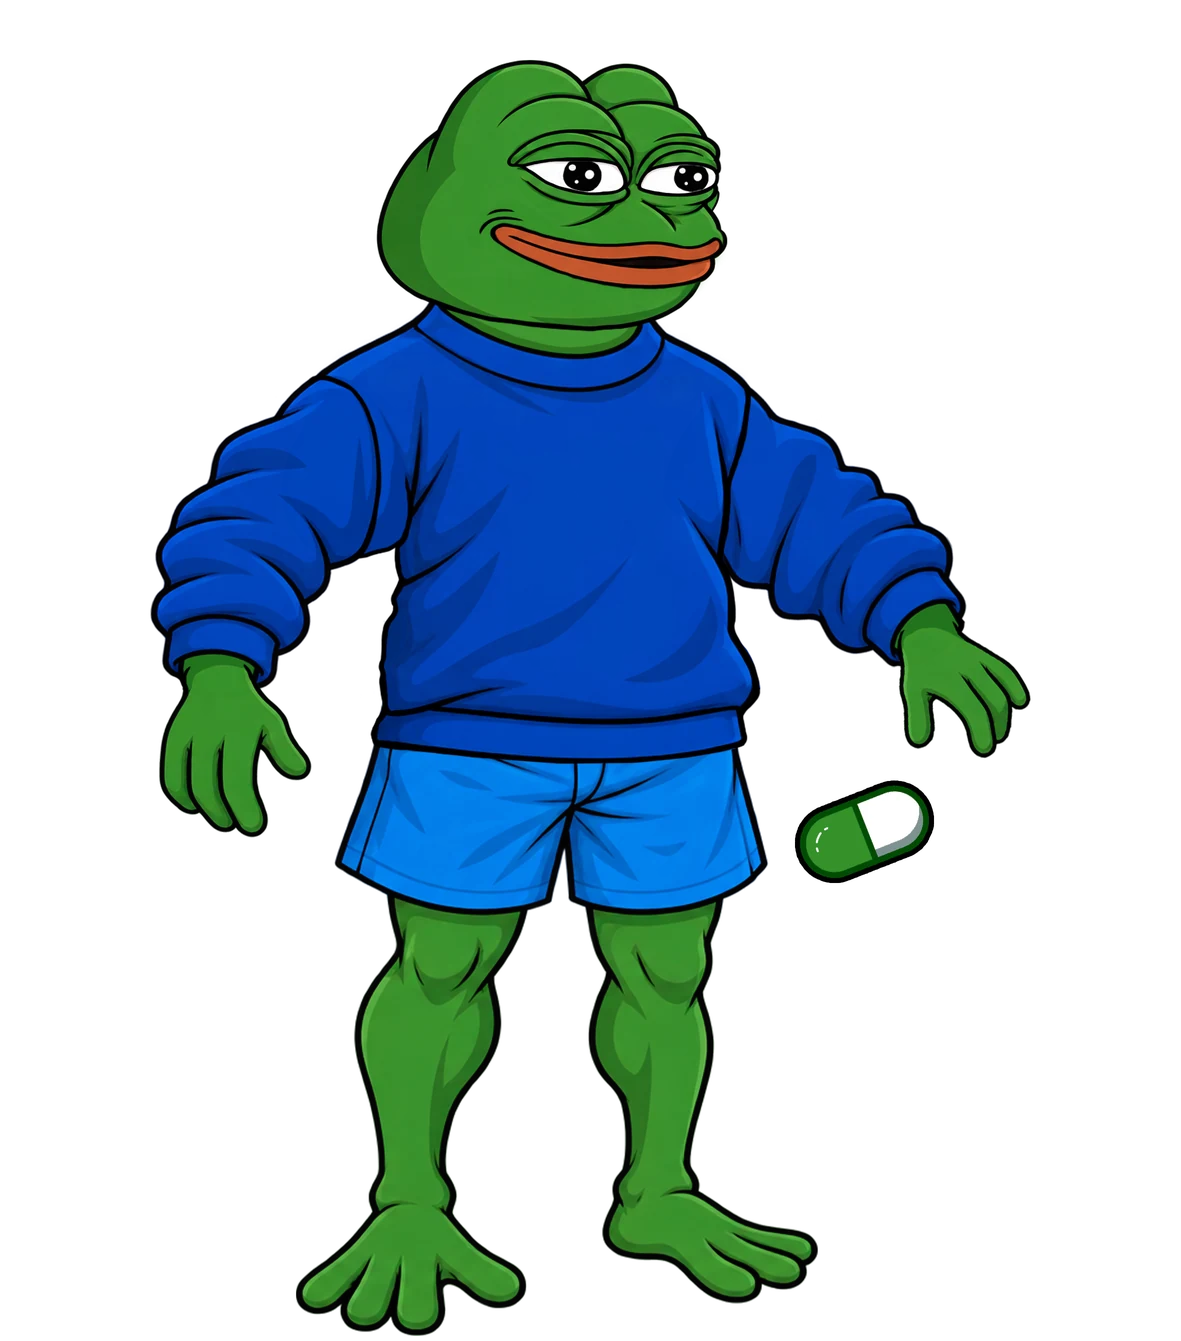
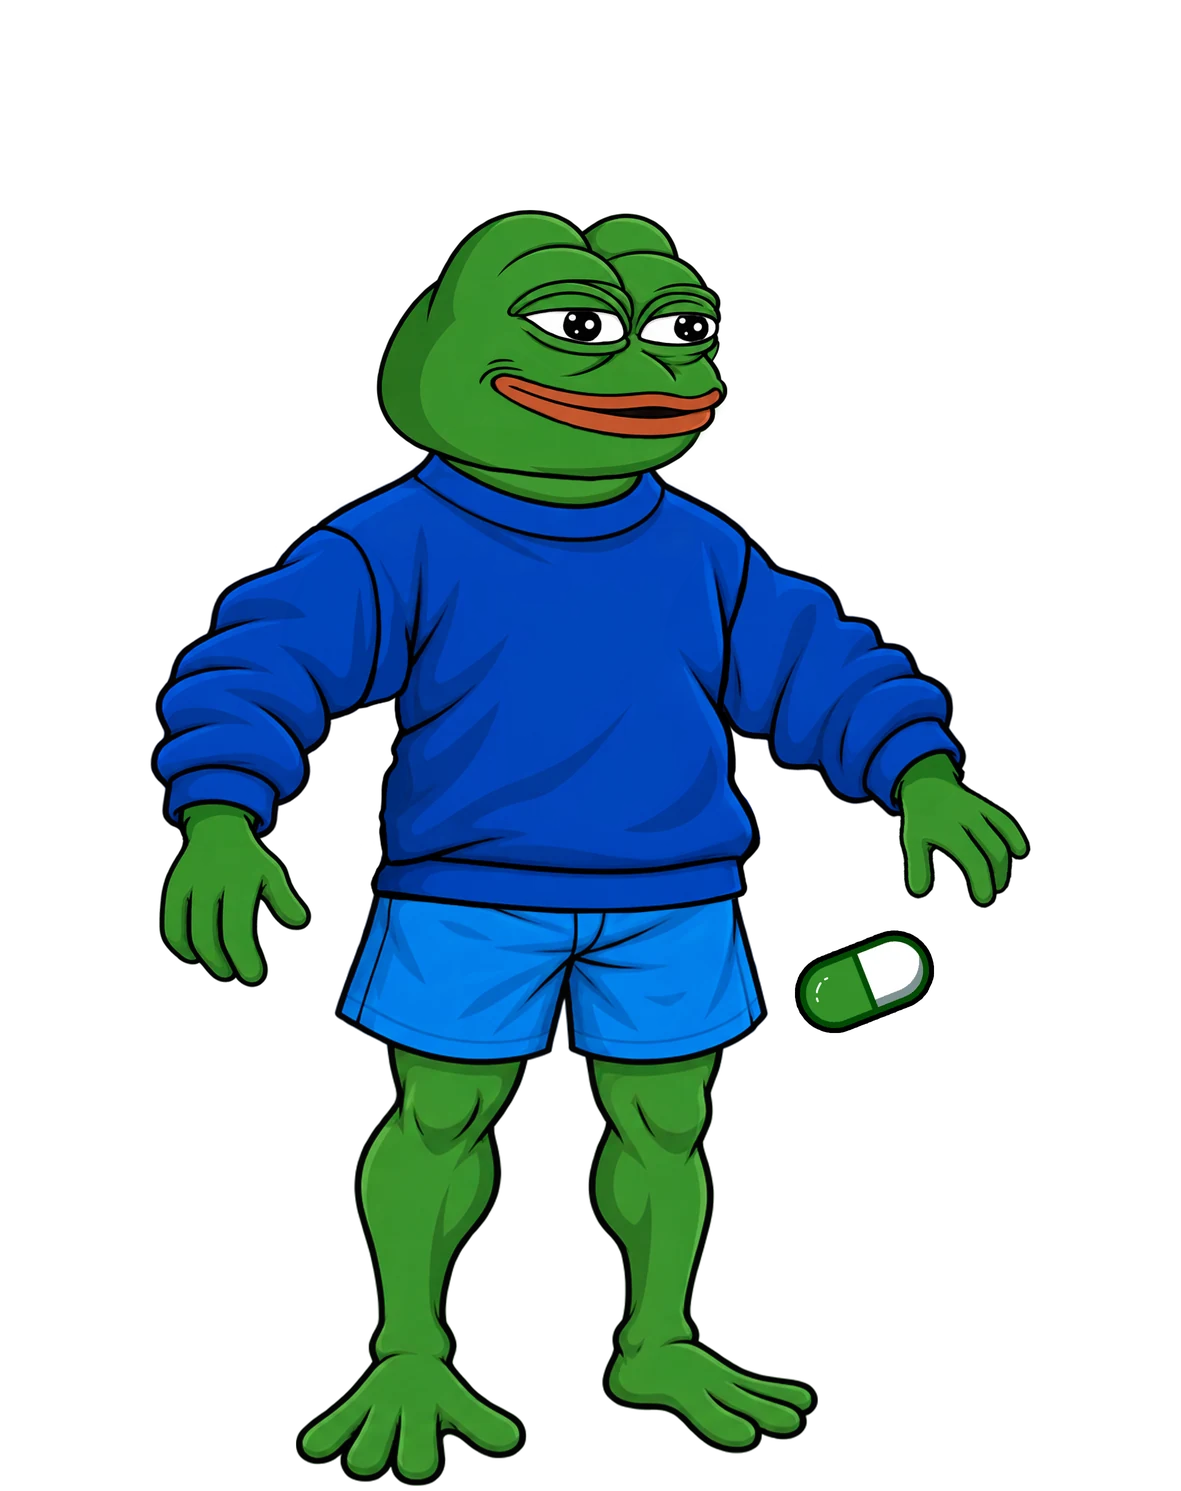
Pepe: curls the pill in to the body (not up), the pill sits behind the holding hand, tossed high over his head and followed by his eyes; a glum face when hit; a bigger chest on the breath in
Claude-Session: https://claude.ai/code/session_01E3jaUxUo8xTQNwyakAWMq3

Changed region(s): [[0.1219, 0.0306, 0.884, 1.0], [0.4877, 0.428, 0.5182, 0.4586]]

diff --git a/src/client/art/pepe-rig.tsx b/src/client/art/pepe-rig.tsx
@@ -90,7 +90,12 @@ function distSeg(x: number, y: number, [a, b]: [V, V]) {
 }
 
 /* ---------------- the motion ---------------- */
-interface Pose { local: Record<BoneId, A>; breath: number; /** 0 open … 1 shut */ lid: number; look: number; pill: { at: V; rot: number } }
+interface Pose {
+  local: Record<BoneId, A>; breath: number; /** 0 open … 1 shut */ lid: number;
+  /** where the pupils look (rig px) */ gaze: V;
+  /** the pill: where it is, its turn, and which hand holds it (drawn behind that hand) — null while it flies */
+  pill: { at: V; rot: number; held: "L" | "R" | null };
+}
 const ease = (x: number) => x * x * (3 - 2 * x);
 const clamp01 = (x: number) => Math.max(0, Math.min(1, x));
 /** one fast, heavy breath: a quick gulp in, a longer breath out */
@@ -98,13 +103,22 @@ function breathOf(t: number) {
   const ph = (t % 1.15) / 1.15;
   return ph < 0.38 ? ease(ph / 0.38) : 1 - ease((ph - 0.38) / 0.62);
 }
-// held between the fingers (drawn over the hand), so it rides along when the arm flexes
+// held between the fingers (drawn behind the hand), so it rides along when the arm bends
 const inFingers = (a: V, b: V, palm: V): V => { const m = mid(a, b); return [m[0] + (palm[0] - m[0]) * 0.3, m[1] + (palm[1] - m[1]) * 0.3]; };
 const PILL_REST_R: V = inFingers(P.fingR1t, P.fingR2t, P.handR);
 const PILL_REST_L: V = inFingers(P.fingL1t, P.fingL2t, P.handL);
-const PILL_CYCLE = 4.6;
+const PILL_CYCLE = 5.1;
+/** how much wider the jumper gets at the chest on a full breath in */
+const SWELL = 0.15;
+/** the swell's strength at height y (0 at the neck and the hem, most at the chest) */
+function swellAt(y: number) {
+  const top = P.neckL[1], bot = P.waist[1];
+  const u = clamp01((y - top) / (bot - top));
+  return { g: Math.sin(Math.PI * Math.min(1, u * 1.25)) * (1 - u * 0.4), u };
+}
+const FACE_X = (P.browL[0] + P.browR[0]) / 2, EYE_Y = (P.browL[1] + P.browR[1]) / 2 + 22;
 
-function poseAt(t: number): Pose {
+function poseAt(t: number, sad: number): Pose {
   const b = breathOf(t);
   const lo: Record<string, A> = {};
   for (const k of Object.keys(BONES)) lo[k] = I;
@@ -115,64 +129,68 @@ function poseAt(t: number): Pose {
   const c = t % PILL_CYCLE;
   const fly = (u: number, from: V, to: V, dir: number) => {
     const e = ease(u);
-    return { at: [from[0] + (to[0] - from[0]) * e, from[1] + (to[1] - from[1]) * e - Math.sin(Math.PI * u) * 300] as V, rot: dir * 540 * e };
+    // tossed high up over his head (he follows it with his eyes) and caught by the other hand
+    return { at: [from[0] + (to[0] - from[0]) * e, from[1] + (to[1] - from[1]) * u - Math.sin(Math.PI * u) * 760] as V, rot: dir * 720 * u, held: null };
   };
   // the throwing hand flicks up just before, the catching one gives a little under it
   const flick = (start: number) => { const u = (c - start) / 0.35; return u > 0 && u < 1 ? Math.sin(Math.PI * u) : 0; };
   const give = (land: number) => { const u = (c - land) / 0.4; return u > 0 && u < 1 ? Math.sin(Math.PI * u) : 0; };
   let pill: Pose["pill"];
-  const T1 = 1.6, T2 = 2.35, T3 = 3.85;
-  if (c < T1) pill = { at: PILL_REST_R, rot: 0 };
+  const T1 = 1.6, T2 = 2.55, T3 = 4.15;
+  if (c < T1) pill = { at: PILL_REST_R, rot: 0, held: "R" };
   else if (c < T2) pill = fly((c - T1) / (T2 - T1), PILL_REST_R, PILL_REST_L, -1);
-  else if (c < T3) pill = { at: PILL_REST_L, rot: 0 };
+  else if (c < T3) pill = { at: PILL_REST_L, rot: 0, held: "L" };
   else pill = fly((c - T3) / (PILL_CYCLE - T3), PILL_REST_L, PILL_REST_R, 1);
-  // the arm that holds the pill shows off a biceps between the tosses: the upper arm goes out, the forearm comes up at the
-  // elbow, a few pumps at the top, and down again in time for the throw
+  // the hand that holds the pill curls it in to the body (the forearm bends at the elbow towards the chest, coming at us
+  // a little — shorter), a few pumps, and down again in time for the throw
   const curl = (u0: number, u1: number) => {
     if (c < u0 || c > u1) return 0;
     const u = (c - u0) / (u1 - u0);
-    const up = u < 0.28 ? ease(u / 0.28) : u > 0.75 ? 1 - ease((u - 0.75) / 0.25) : 1;
-    return up * (1 + (u > 0.28 && u < 0.75 ? 0.06 * Math.sin(((u - 0.28) / 0.47) * Math.PI * 6) : 0));
+    const up = u < 0.3 ? ease(u / 0.3) : u > 0.72 ? 1 - ease((u - 0.72) / 0.28) : 1;
+    return up * (1 + (u > 0.3 && u < 0.72 ? 0.07 * Math.sin(((u - 0.3) / 0.42) * Math.PI * 6) : 0));
   };
-  const cR = curl(0.05, T1 - 0.25), cL = curl(T2 + 0.15, T3 - 0.25);
-  // the forearm leads (a curl with the elbow down), the upper arm comes up after it — the fist never swings far out
-  const fR = Math.min(1.06, cR * 1.6), fL = Math.min(1.06, cL * 1.6);
-  const uR = clamp01((cR - 0.4) / 0.6), uL = clamp01((cL - 0.4) / 0.6);
+  const cR = curl(0.1, T1 - 0.3), cL = curl(T2 + 0.2, T3 - 0.3);
   const wristR = -24 * flick(T1 - 0.2) + 8 * give(0);
   const wristL = 24 * flick(T3 - 0.2) - 8 * give(T2);
   // the fingers squeeze together now and then (two quick squeezes), each hand on its own beat
   const sq = (ofs: number) => { const u = ((t + ofs) % 3.1) / 3.1; return u < 0.12 ? Math.sin((Math.PI * u) / 0.12) : u > 0.18 && u < 0.3 ? Math.sin((Math.PI * (u - 0.18)) / 0.12) : 0; };
   const sL = sq(0.9), sR = sq(0);
-  // a biceps pose: the upper arm out level with the shoulder, the forearm straight up, the fist by the head
-  lo.armL = local(P.shL, 2.5 * b + 26 * uL, 0, -2 * b - 6 * uL);
-  lo.armR = local(P.shR, -2.5 * b - 34 * uR, 0, -2 * b - 6 * uR);
-  // halfway up the forearm points at us: it looks shorter, so the fist does not swing far out to the side
-  const shortL = 1 - 0.5 * Math.sin(Math.PI * Math.min(1, fL)), shortR = 1 - 0.4 * Math.sin(Math.PI * Math.min(1, fR));
-  lo.foreL = localK(P.elL, -3 * b + 128 * fL, shortL);
-  lo.foreR = localK(P.elR, 3 * b - 108 * fR, shortR);
-  // the fist turns in a little at the top of the curl
-  lo.handL = localK(P.handL, wristL + 4 * b + 20 * cL, 1 / shortL); // the fist keeps its size
-  lo.handR = localK(P.handR, wristR - 4 * b - 20 * cR, 1 / shortR);
+  // the shoulders go out with the swelling chest
+  const gS = swellAt((P.shL[1] + P.shR[1]) / 2).g * SWELL * b;
+  lo.armL = local(P.shL, 2.5 * b - 7 * cL, (P.shL[0] - P.chest[0]) * gS, -2 * b);
+  lo.armR = local(P.shR, -2.5 * b + 7 * cR, (P.shR[0] - P.chest[0]) * gS, -2 * b);
+  lo.foreL = localK(P.elL, -3 * b - 128 * cL, 1 - 0.32 * Math.min(1, cL));
+  lo.foreR = localK(P.elR, 3 * b + 118 * cR, 1 - 0.32 * Math.min(1, cR));
+  lo.handL = localK(P.handL, wristL + 4 * b - 12 * cL, 1 / (1 - 0.32 * Math.min(1, cL))); // the fist keeps its size
+  lo.handR = localK(P.handR, wristR - 4 * b + 12 * cR, 1 / (1 - 0.32 * Math.min(1, cR)));
   lo.fingL1 = local(P.fingL1, -7 * sL);
   lo.fingL2 = local(P.handL, 9 * sL);
   lo.fingR1 = local(P.handR, -9 * sR);
   lo.fingR2 = local(P.fingR2, 8 * sR);
   // brows: raised now and then, knitted on the breath in
   const raise = (() => { const u = (t % 5.3) / 5.3; return u > 0.6 && u < 0.78 ? Math.sin((Math.PI * (u - 0.6)) / 0.18) : 0; })();
-  lo.browL = local(P.browL, -2 * raise + 1.5 * b, 0, -6 * raise - 1.5 * b);
-  lo.browR = local(P.browR, 2 * raise - 1.5 * b, 0, -6 * raise - 1.5 * b);
+  // hit: sad — the inner ends of the brows go up
+  lo.browL = local(P.browL, -2 * raise + 1.5 * b - 8 * sad, 0, -6 * raise - 1.5 * b - 3 * sad);
+  lo.browR = local(P.browR, 2 * raise - 1.5 * b + 8 * sad, 0, -6 * raise - 1.5 * b - 3 * sad);
   // the mouth: open on the breath out (the middle drops), the corners twitch
-  const out = 1 - b;
-  lo.mouthM = local(P.mouthM, 0, 0, 7 * out);
-  lo.mouthL = local(P.mouthL, 0, -1.5 * out, 2 * out + Math.sin(t * 2.1) * 1.2);
-  lo.mouthR = local(P.mouthR, 0, 1.5 * out, 2 * out - Math.sin(t * 1.7) * 1.2);
+  // hit: a glum mouth — the corners drop and come in, the middle rises, it stays shut
+  const out = (1 - b) * (1 - sad);
+  lo.mouthM = local(P.mouthM, 0, 0, 7 * out - 9 * sad);
+  lo.mouthL = local(P.mouthL, 0, -1.5 * out + 6 * sad, 2 * out + Math.sin(t * 2.1) * 1.2 + 16 * sad);
+  lo.mouthR = local(P.mouthR, 0, 1.5 * out - 6 * sad, 2 * out - Math.sin(t * 1.7) * 1.2 + 16 * sad);
   // smooth blinks every few seconds (now and then a double one): the lids close fast, stay a moment, open slower
   const shut = (u: number) => (u < 0 ? 0 : u < 0.08 ? ease(u / 0.08) : u < 0.13 ? 1 : u < 0.3 ? 1 - ease((u - 0.13) / 0.17) : 0);
   const n = Math.floor(t / 3.7), bl = t % 3.7;
-  const lid = Math.max(shut(bl), n % 3 === 2 ? shut(bl - 0.34) : 0);
-  // and the eyes look about
+  // sad eyes are half shut
+  const lid = Math.max(shut(bl), n % 3 === 2 ? shut(bl - 0.34) : 0, 0.35 * sad);
+  // the eyes look about — and follow the pill while it flies; the head tips back a little to watch it go up
   const look = Math.sin(t * 0.55) > 0.6 ? 1 : Math.sin(t * 0.55) < -0.75 ? -1 : 0;
-  return { local: lo as Record<BoneId, A>, breath: b, lid, look, pill };
+  let gaze: V = [look * 5, 0];
+  if (!pill.held) {
+    gaze = [Math.max(-1, Math.min(1, (pill.at[0] - FACE_X) / 260)) * 8, Math.max(-1, Math.min(1, (pill.at[1] - EYE_Y) / 260)) * 6];
+    lo.head = mul(lo.head, local(neck, Math.max(0, EYE_Y - pill.at[1]) * -0.02));
+  }
+  return { local: lo as Record<BoneId, A>, breath: b, lid, gaze, pill };
 }
 
 function worldOf(lo: Record<BoneId, A>): Record<BoneId, A> {
@@ -253,10 +271,8 @@ function buildMesh(gl: WebGLRenderingContext, id: LayerId, img: HTMLImageElement
 
 /** the jumper swells on the breath in: wider at the chest, the hem stays */
 function swell(x: number, y: number, b: number): V {
-  const top = P.neckL[1], bot = P.waist[1];
-  const u = clamp01((y - top) / (bot - top));
-  const g = Math.sin(Math.PI * Math.min(1, u * 1.25)) * (1 - u * 0.4);
-  return [P.chest[0] + (x - P.chest[0]) * (1 + 0.07 * b * g), y - 5 * b * g * (1 - u)];
+  const { g, u } = swellAt(y);
+  return [P.chest[0] + (x - P.chest[0]) * (1 + SWELL * b * g), y - 10 * b * g * (1 - u)];
 }
 
 const VS = `attribute vec2 p; attribute vec2 t; uniform vec4 r; varying vec2 v;
@@ -264,8 +280,11 @@ void main(){ v = t; vec2 q = (p - r.xy) / r.zw; gl_Position = vec4(q.x * 2.0 - 1
 const FS = `precision mediump float; varying vec2 v; uniform sampler2D s; uniform float a;
 void main(){ gl_FragColor = texture2D(s, v) * a; }`;
 
-export function PepeRig({ view, className }: { view?: readonly [number, number, number, number]; className?: string }) {
+/** `sad`: he has just been hit — the glum face (eases in and out) */
+export function PepeRig({ view, className, sad }: { view?: readonly [number, number, number, number]; className?: string; sad?: boolean }) {
   const ref = useRef<HTMLCanvasElement>(null);
+  const sadRef = useRef(!!sad);
+  sadRef.current = !!sad;
   const box = view ?? [0, 0, PEPE.w, PEPE.h];
   const key = box.join(",");
   useEffect(() => {
@@ -285,6 +304,7 @@ export function PepeRig({ view, className }: { view?: readonly [number, number, 
       .then((imgs) => { if (alive) imgs.forEach((im, i) => meshes.push(buildMesh(gl, ORDER[i], im))); })
       .catch(() => undefined);
     const t0 = performance.now();
+    let lastT = 0, sadV = 0;
     const frame = (now: number) => {
       raf = requestAnimationFrame(frame);
       if (!meshes.length) return;
@@ -299,14 +319,22 @@ export function PepeRig({ view, className }: { view?: readonly [number, number, 
       const vw = W / k, vh = H / k;
       gl.uniform4f(uR, box[0] - (vw - box[2]) / 2, box[1] - (vh - box[3]), vw, vh);
       const t = (now - t0) / 1000;
-      const pose = poseAt(t);
+      const dt = Math.min(0.1, Math.max(0, t - lastT)); lastT = t;
+      sadV += ((sadRef.current ? 1 : 0) - sadV) * Math.min(1, dt * (sadRef.current ? 14 : 4));
+      const pose = poseAt(t, ease(clamp01(sadV)));
+      // the pill is drawn just behind the hand that holds it, over everything while it flies
+      const pm = meshes.find((m) => m.id === "pill");
+      const hold = pose.pill.held ? (pose.pill.held === "R" ? "handR" : "handL") : null;
+      const order: Mesh[] = [];
+      for (const m of meshes) { if (m === pm) continue; if (hold && m.id === hold && pm) order.push(pm); order.push(m); }
+      if (!hold && pm) order.push(pm);
       const wd = worldOf(pose.local);
-      for (const m of meshes) {
+      for (const m of order) {
         const nb = m.bones.length;
         for (let v = 0; v < m.n; v++) {
           let x = m.rest[v * 2], y = m.rest[v * 2 + 1];
           if (m.id === "body") [x, y] = swell(x, y, pose.breath);
-          if (m.id === "pupils") x += pose.look * 5;
+          if (m.id === "pupils") { x += pose.gaze[0]; y += pose.gaze[1]; }
           if (m.id.startsWith("lid")) y += LID_SLIDE[m.id.slice(3) as "UL"] * pose.lid;
           let ox = 0, oy = 0;
           if (m.id === "pill") {
@@ -314,8 +342,7 @@ export function PepeRig({ view, className }: { view?: readonly [number, number, 
             const dx = x - c[0], dy = y - c[1];
             ox = pose.pill.at[0] + dx * Math.cos(r) - dy * Math.sin(r); oy = pose.pill.at[1] + dx * Math.sin(r) + dy * Math.cos(r);
             // in a hand it moves with that hand
-            const inR = pose.pill.at === PILL_REST_R, inL = pose.pill.at === PILL_REST_L;
-            if (inR || inL) { const q = ap(wd[inR ? "handR" : "handL"], ox, oy); ox = q[0]; oy = q[1]; }
+            if (pose.pill.held) { const q = ap(wd[pose.pill.held === "R" ? "handR" : "handL"], ox, oy); ox = q[0]; oy = q[1]; }
           } else {
             for (let b = 0; b < nb; b++) {
               const wt = m.w[v * nb + b];

diff --git a/src/client/art/pepe-data.ts b/src/client/art/pepe-data.ts
@@ -1,2 +1,2 @@
 /* generated by tools/boss/pepe/assemble.py — Пепе's layers ([x, y, w, h] in rig px) and bone points */
-export const PEPE = {"w": 1181, "h": 1341, "layers": {"legs": [296.0, 690.0, 522, 646], "sleeveR": [661.5, 383.0, 306, 284], "handR": [896.5, 610.5, 134, 148], "body": [280.5, 275.5, 480, 489], "sleeveL": [150.0, 373.5, 232, 325], "handL": [158.5, 659.0, 154, 179], "whites": [525.0, 159.0, 194, 36], "pupils": [562.5, 159.0, 146, 34], "lidLL": [516.5, 177.5, 112, 53], "lidLR": [626.5, 190.0, 94, 32], "lidUL": [531.0, 124.5, 113, 44], "lidUR": [621.5, 135.5, 94, 37], "head": [376.5, 60.0, 351, 286], "mouth": [479.0, 208.0, 245, 82], "pill": [795.0, 780.5, 139, 102]}, "pts": {"headTL": [528.9, 75.4], "headTR": [633.9, 81.0], "browLtop": [569.4, 126.8], "browRtop": [683.4, 135.0], "browL": [571.6, 149.8], "browR": [688.5, 155.1], "mouthL": [501.9, 231.8], "mouthR": [709.0, 252.2], "mouthM": [635.6, 261.8], "cheek": [401.1, 245.5], "chinL": [519.5, 303.2], "chinR": [639.0, 307.6], "neckL": [412.9, 348.3], "neckR": [692.9, 366.3], "chest": [579.2, 451.2], "belly": [579.2, 557.5], "waist": [579.1, 687.4], "shL": [336.5, 409.5], "elL": [239.2, 511.1], "wrL": [221.3, 630.4], "handL": [213.3, 672.2], "fingL1": [219.0, 713.8], "fingL1t": [221.3, 802.5], "fingL2t": [286.4, 753.3], "shR": [729.2, 428.3], "elR": [840.2, 508.0], "wrR": [907.1, 602.2], "handR": [925.5, 631.2], "fingR2": [952.3, 659.9], "fingR2t": [996.6, 716.9], "fingR1t": [916.2, 717.2], "hipL": [467.4, 790.7], "kneeL": [437.0, 968.6], "footL": [407.7, 1194.8], "hipR": [666.4, 784.4], "kneeR": [675.7, 963.5], "footR": [655.8, 1188.5], "pillA": [823.0, 848.1], "pillM": [867.5, 831.9], "pillB": [909.3, 814.1]}, "lids": {"UL": 25.6, "LL": -18.8, "UR": 19.7, "LR": -20.4}} as const;
+export const PEPE = {"w": 1181, "h": 1491, "layers": {"legs": [296.0, 840.0, 522, 646], "sleeveR": [661.5, 533.0, 306, 284], "handR": [896.5, 760.5, 134, 148], "body": [280.5, 425.5, 480, 489], "sleeveL": [150.0, 523.5, 232, 325], "handL": [158.5, 809.0, 154, 179], "whites": [525.0, 309.0, 194, 36], "pupils": [562.5, 309.0, 146, 34], "lidLL": [516.5, 327.5, 112, 53], "lidLR": [626.5, 340.0, 94, 32], "lidUL": [531.0, 274.5, 113, 44], "lidUR": [621.5, 285.5, 94, 37], "head": [376.5, 210.0, 351, 286], "mouth": [479.0, 358.0, 245, 82], "pill": [795.0, 930.5, 139, 102]}, "pts": {"headTL": [528.9, 225.4], "headTR": [633.9, 231.0], "browLtop": [569.4, 276.8], "browRtop": [683.4, 285.0], "browL": [571.6, 299.8], "browR": [688.5, 305.1], "mouthL": [501.9, 381.8], "mouthR": [709.0, 402.2], "mouthM": [635.6, 411.8], "cheek": [401.1, 395.5], "chinL": [519.5, 453.2], "chinR": [639.0, 457.6], "neckL": [412.9, 498.3], "neckR": [692.9, 516.3], "chest": [579.2, 601.2], "belly": [579.2, 707.5], "waist": [579.1, 837.4], "shL": [336.5, 559.5], "elL": [239.2, 661.1], "wrL": [221.3, 780.4], "handL": [213.3, 822.2], "fingL1": [219.0, 863.8], "fingL1t": [221.3, 952.5], "fingL2t": [286.4, 903.3], "shR": [729.2, 578.3], "elR": [840.2, 658.0], "wrR": [907.1, 752.2], "handR": [925.5, 781.2], "fingR2": [952.3, 809.9], "fingR2t": [996.6, 866.9], "fingR1t": [916.2, 867.2], "hipL": [467.4, 940.7], "kneeL": [437.0, 1118.6], "footL": [407.7, 1344.8], "hipR": [666.4, 934.4], "kneeR": [675.7, 1113.5], "footR": [655.8, 1338.5], "pillA": [823.0, 998.1], "pillM": [867.5, 981.9], "pillB": [909.3, 964.1]}, "lids": {"UL": 25.6, "LL": -18.8, "UR": 19.7, "LR": -20.4}} as const;

diff --git a/src/client/screens/event-pepe.tsx b/src/client/screens/event-pepe.tsx
@@ -96,7 +96,7 @@ export function PepeEventScreen() {
         </div>
         <div className="arena full" style={{ ["--acc" as string]: PEPE_EVENT.accent }}>
           <div className={`arena-photo ${hit ? "hit" : ""} ${ouch ? "ouch" : ""}`}>
-            <PepeRig className="boss-rig" />
+            <PepeRig className="boss-rig" sad={ouch} />
             <div className="arena-flash" />
           </div>
           <div className="arena-top">
@@ -144,7 +144,7 @@ export function PepeEventScreen() {
           <DriftingSky className="fight-sky" />
           {/* eslint-disable-next-line @next/next/no-img-element */}
           <img className="door-behind-bg" src={BG} alt="" draggable={false} />
-          <div className="door-boss pepe-door-boss"><PepeRig view={[180, 0, 820, 1341]} /></div>
+          <div className="door-boss pepe-door-boss"><PepeRig view={[180, 150, 820, 1341]} /></div>
           <div className="door-light" />
         </div>
         {/* eslint-disable-next-line @next/next/no-img-element */}

diff --git a/tools/boss/pepe/assemble.py b/tools/boss/pepe/assemble.py
@@ -38,7 +38,7 @@ for n in ORDER:
 bx = comp.split()[3].point(lambda v: 255 if v > 16 else 0).getbbox()
 PAD = 60
 # wide sides: the arms go out and up when he flexes, the pill flies over his head
-X0, Y0, X1, Y1 = bx[0] - 5 * PAD, bx[1] - 2 * PAD, bx[2] + 5 * PAD, bx[3] + 10
+X0, Y0, X1, Y1 = bx[0] - 5 * PAD, bx[1] - 7 * PAD, bx[2] + 5 * PAD, bx[3] + 10
 W, H = round((X1 - X0) * SCALE), round((Y1 - Y0) * SCALE)
 os.makedirs(f"{OUT}/rig", exist_ok=True)
 data = {"w": W, "h": H, "layers": {}, "pts": {}}
